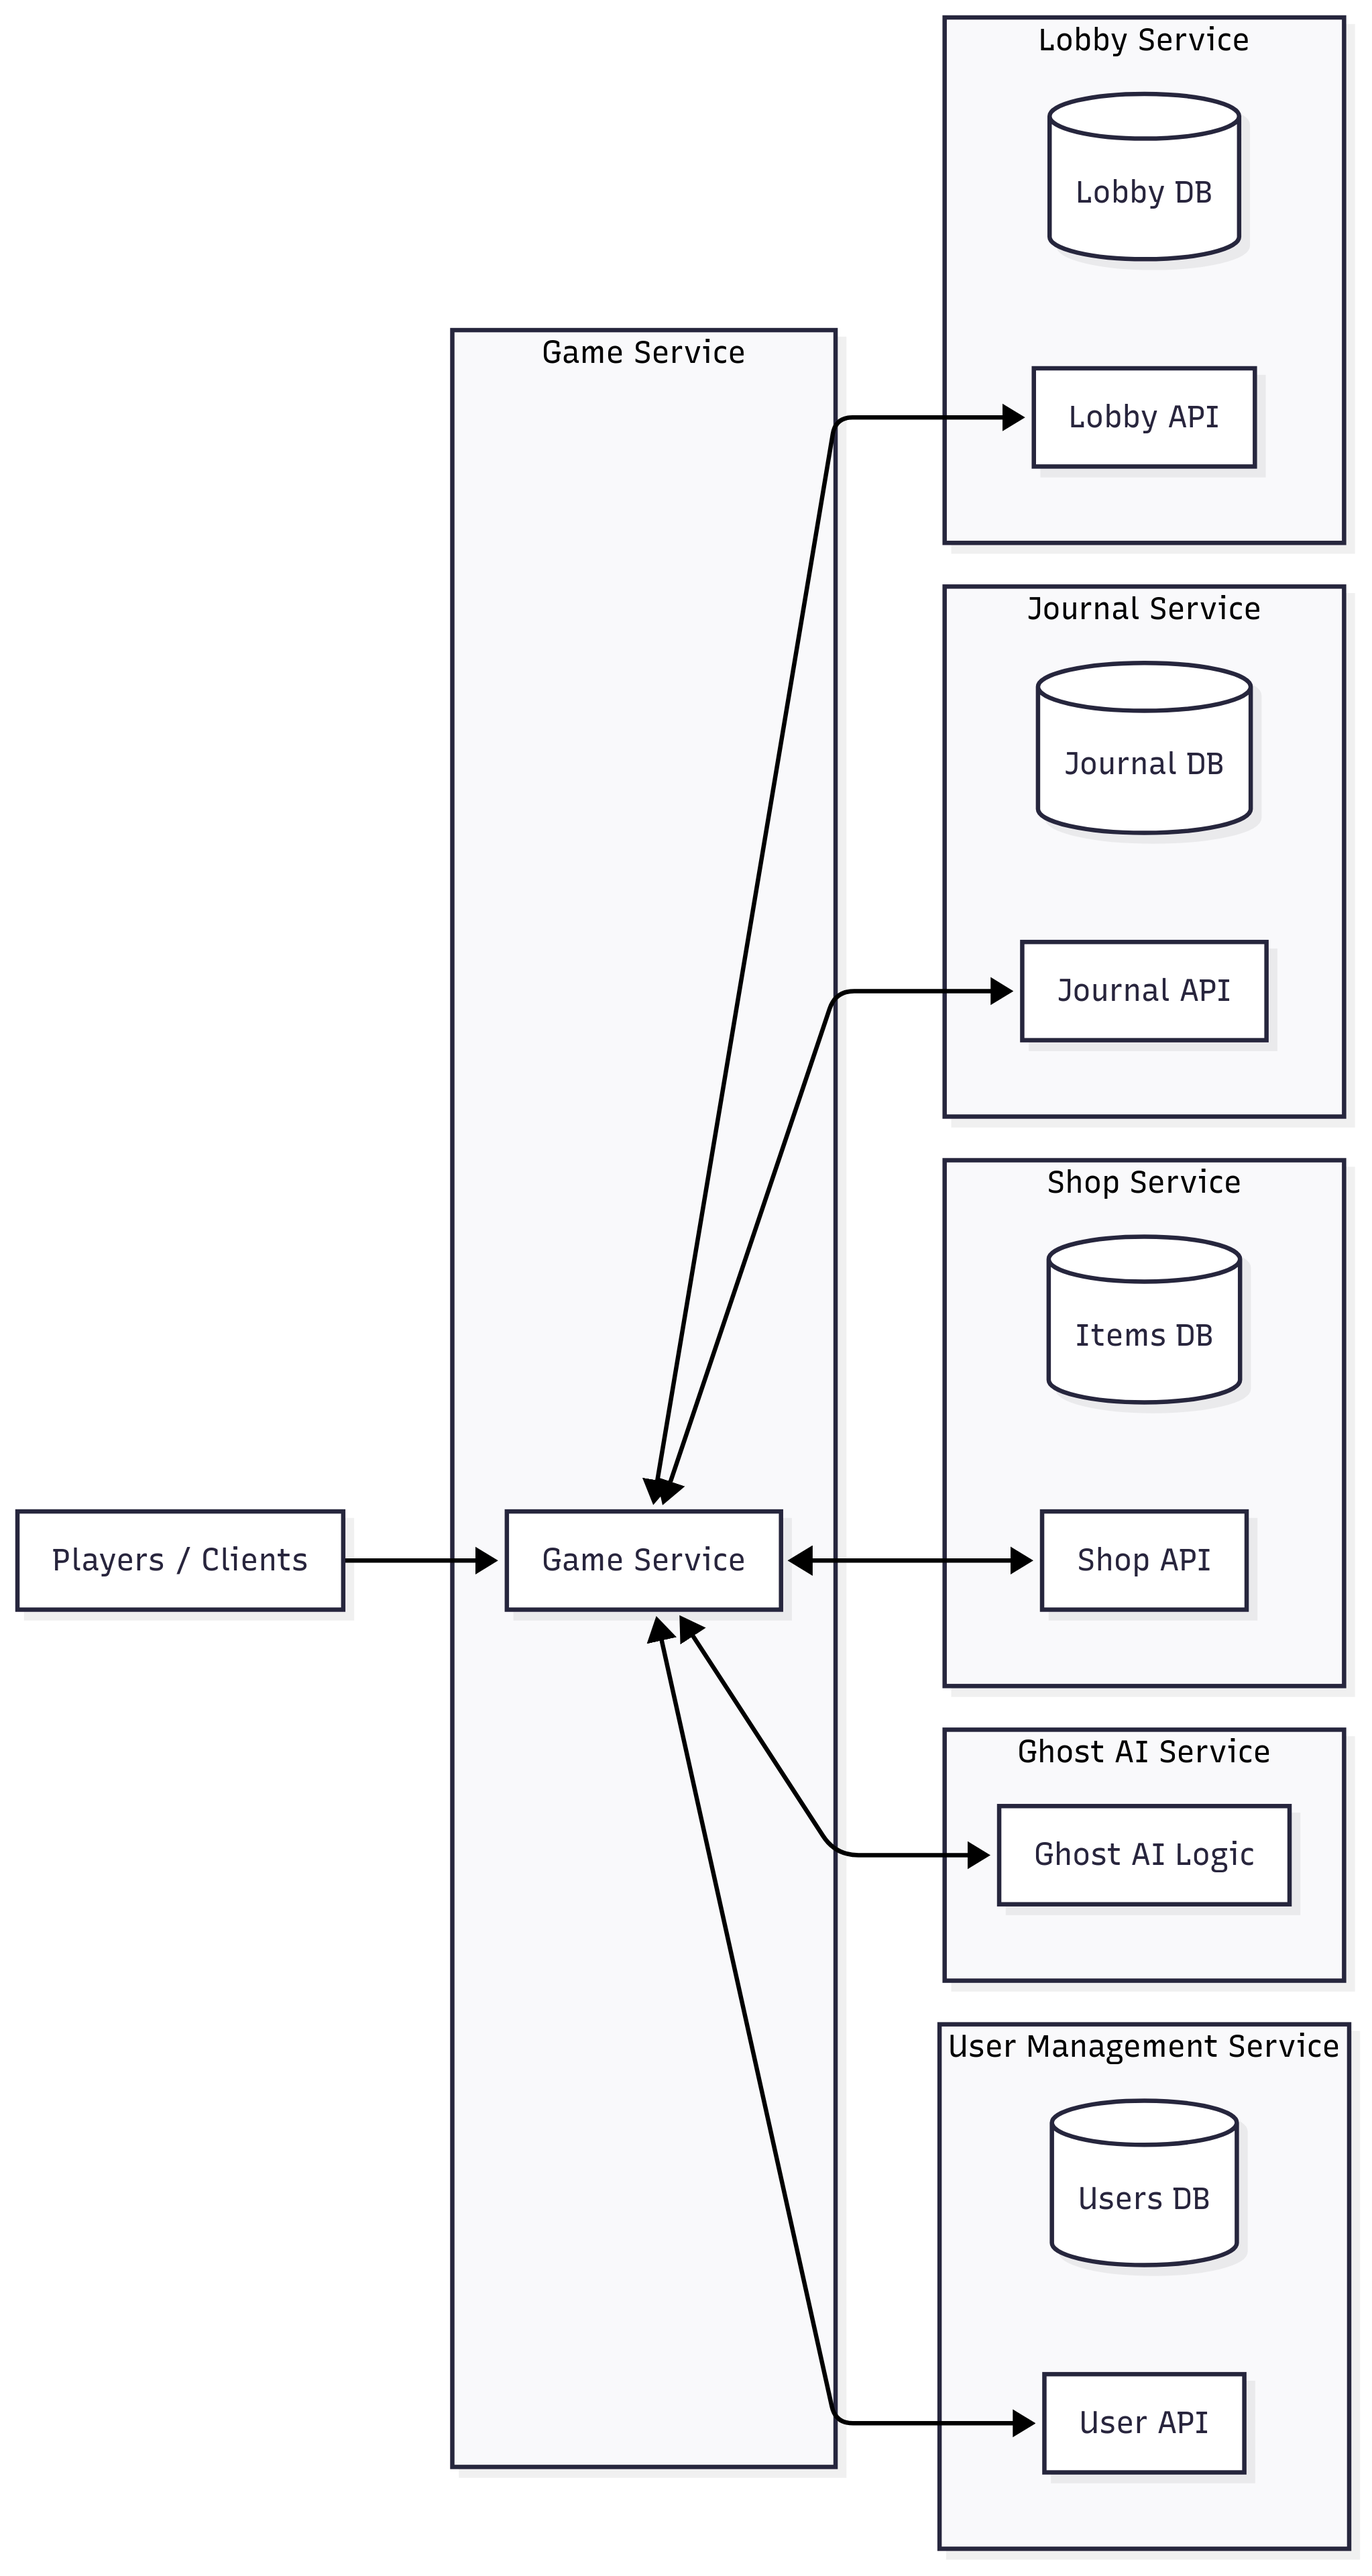
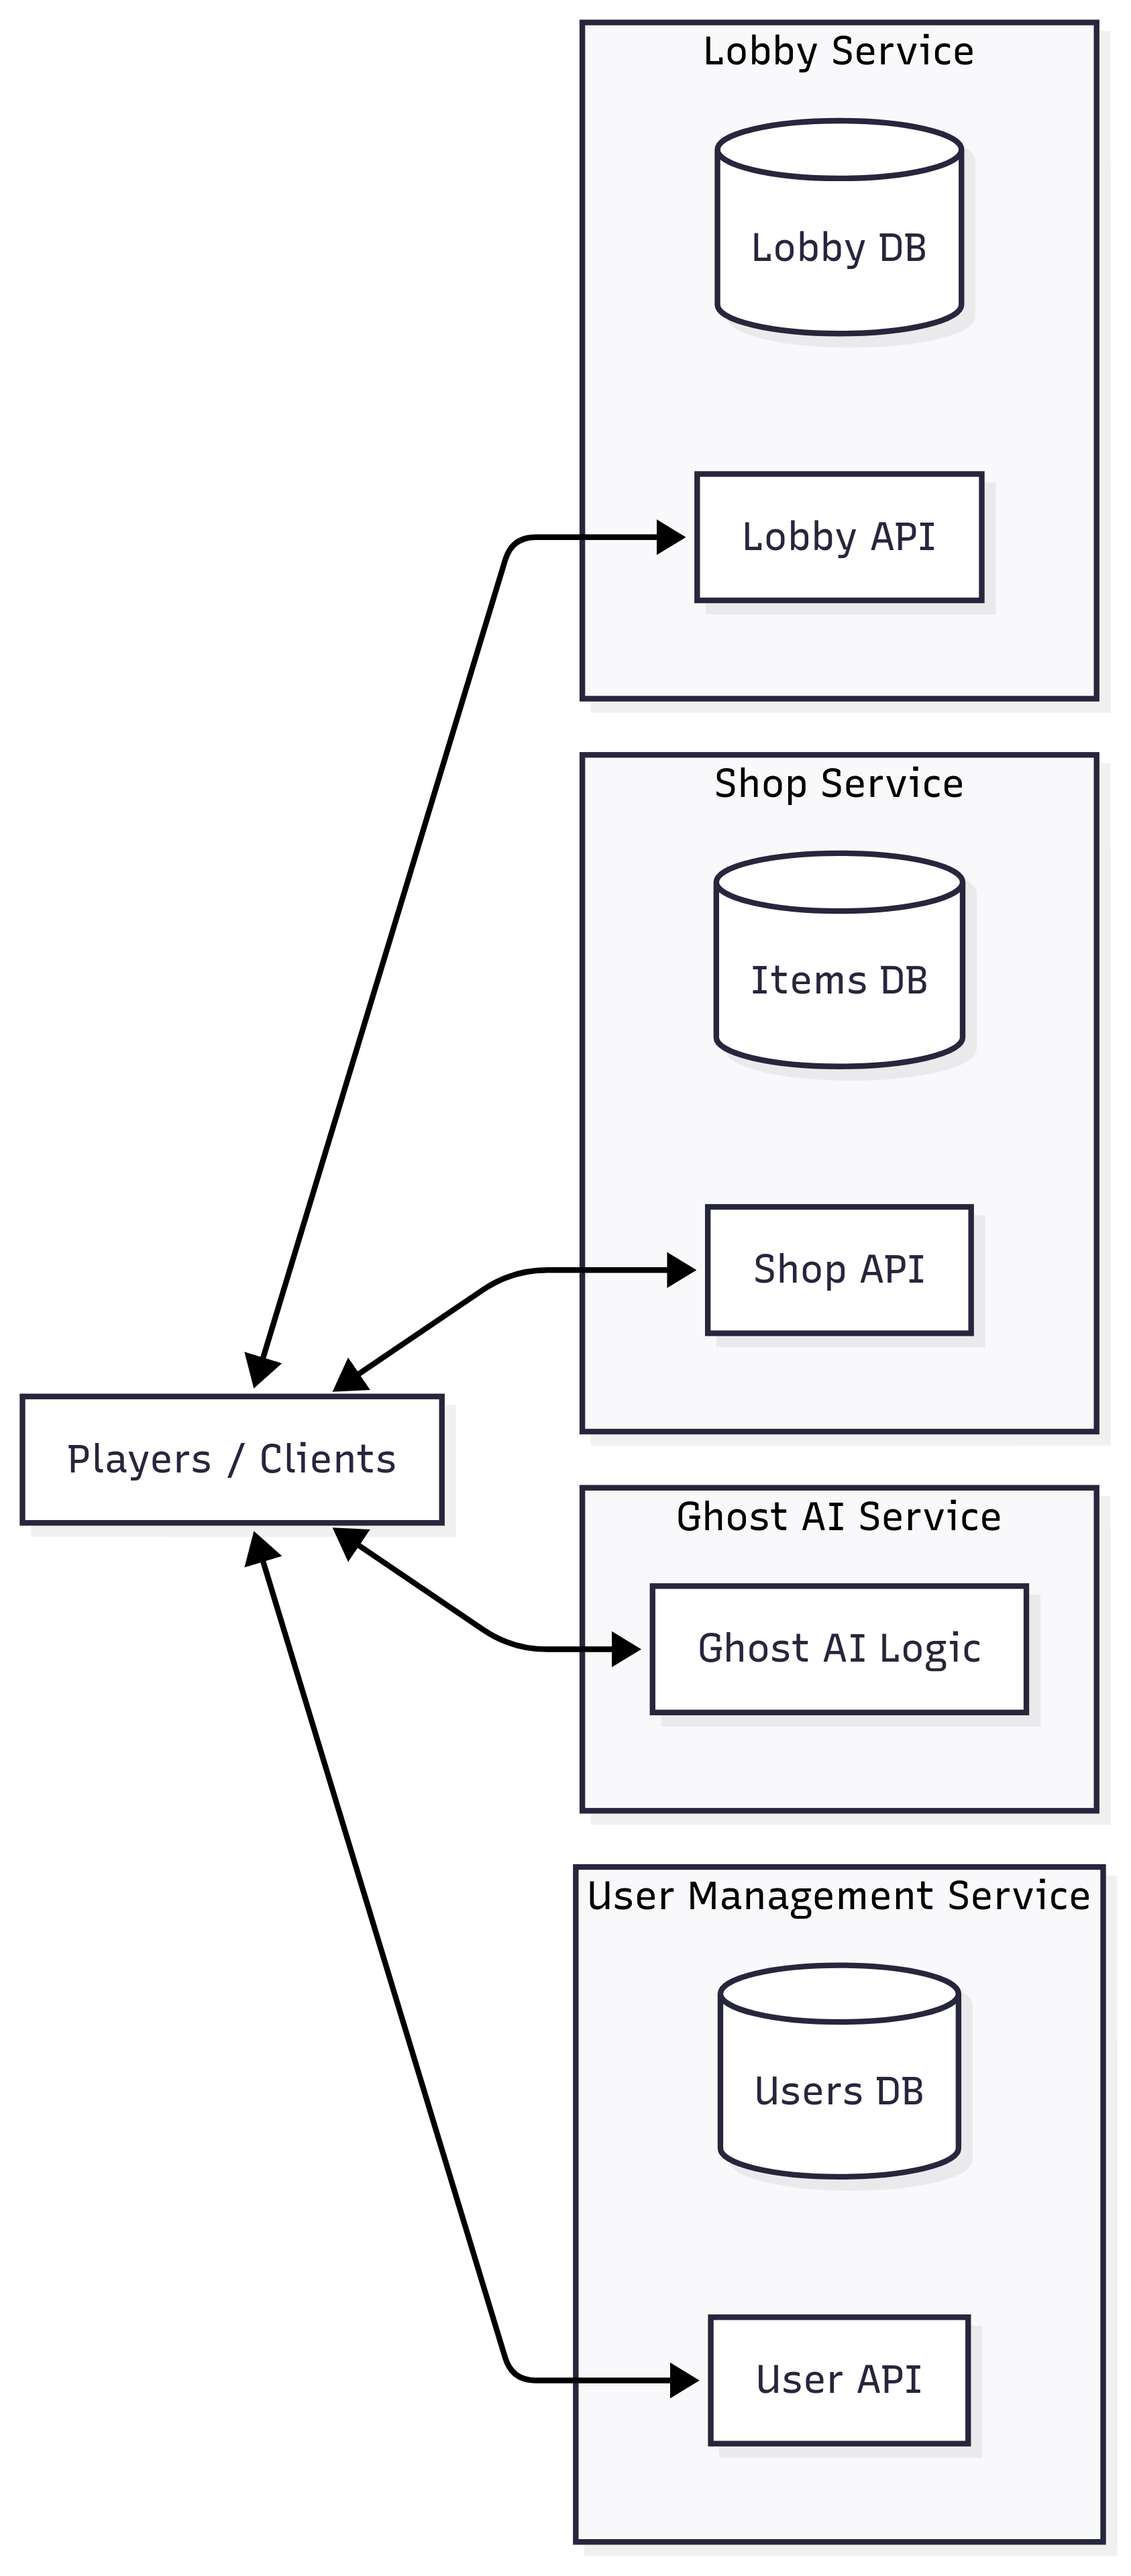
readme file changes + diagram changes

diff --git a/README.md b/README.md
@@ -2,9 +2,13 @@
 
 ## Game Microservices – Service Boundaries
 
-This project is structured around a microservices architecture to ensure modularity, scalability, and independent deployment of each component. Each service is responsible for a specific domain of the game and communicates with others where required.
+This project follows a microservices architecture to ensure modularity, scalability, and independent deployment of each component. Each service is implemented in a different language to promote polyglot programming, reflecting the diversity of team expertise and optimizing for specific business needs.
+
+We use Python and Go, as they are simple to learn, widely supported, and well-suited for game backend scenarios.
+Python is chosen for services that need flexibility and fast iteration (user data, AI logic), while Go is selected for performance-critical and real-time state management (shop, lobby).
 
 ## Services Overview
+
 
 ## 1. User Management Service
 
@@ -32,7 +36,9 @@ This project is structured around a microservices architecture to ensure modular
 
 ### Consumed by:
 
-- Game Service (for retrieving player info during active sessions).
+- Lobby Service (fetch user info).
+
+- Inventory Service (currency checks).
 
 ---
 
@@ -66,7 +72,7 @@ This project is structured around a microservices architecture to ensure modular
 
 ### Consumed by:
 
-- Game Service (to update lobby and broadcast changes to players).
+- Lobby Service (session updates).
 
 ---
 
@@ -82,9 +88,11 @@ This project is structured around a microservices architecture to ensure modular
 
 - Handles item data only.
 
-###Consumers:
+### Consumers:
 
- Game Service, Inventory Service.
+- Inventory Service (item ownership).
+
+- Lobby Service (loading items into session).
 
 
 ---
@@ -105,14 +113,157 @@ This project is structured around a microservices architecture to ensure modular
 
 ### Consumers:
 
-- Game Service to coordinate gameplay.
+- Inventory Service (item ownership).
 
 ---
-
-
-
-
 
 ### Architecture diagram
 
 ![Architecture diagram](diagrams/architect-diagram.png)
+
+---
+
+# Technologies & Communication Patterns
+
+## General Communication Approach:
+
+- REST APIs for synchronous communication (simple, well-understood).
+
+- gRPC / Message Queue for asynchronous events where real-time updates or decoupling are needed.
+
+- WebSockets for real-time communication with players (e.g., chat, lobby updates).
+
+## 1. User Management Service
+### Language & Framework:
+
+- Python
+
+- FastAPI
+
+### Why:
+
+- Beginner-friendly, quick to prototype user flows (auth, friends).
+
+- Good ecosystem for authentication & security (JWT, OAuth).
+
+- Async support in FastAPI makes it efficient for handling many concurrent users.
+
+### Communication:
+
+### Provides REST APIs for:
+
+- User authentication & profile data.
+
+- Friend system (add/remove/list).
+
+### Consumed by:
+
+- Lobby Service (fetch user info).
+
+- Inventory Service (currency checks).
+
+### Trade-offs:
+
+Python is slower than Go, but user management is more I/O-bound than CPU-heavy → acceptable.
+
+## 2. Ghost AI Service
+### Language & Framework:
+
+- Python (asyncio, FastAPI for control plane).
+
+### Why:
+
+- Python is strong for prototyping AI behavior, with libraries for state machines and simulations.
+
+- Easy to spawn async tasks or processes for each ghost acting independently.
+
+- Allows fast experimentation with ghost decision-making.
+
+### Communication:
+
+Provides async events / REST APIs:
+
+Ghost state updates (hiding, haunting, object interaction).
+
+### Consumed by:
+
+- Lobby Service (session updates).
+
+- Game Service indirectly for broadcasting ghost behavior.
+
+### Trade-offs:
+
+Python concurrency (asyncio) is not as fast as Go, but ghost behavior logic is relatively lightweight compared to session state handling → trade-off acceptable.
+
+## 3. Shop Service
+### Language & Framework:
+
+- Go + Gin 
+- gRPC/WebSocket
+
+### Why:
+
+- Shop must handle real-time price updates efficiently.
+
+- Go provides strong concurrency via goroutines, making it perfect for event-driven updates.
+
+- Fast and memory-efficient, ensuring scalability when many players check shop prices.
+
+### Communication:
+
+Provides REST APIs for:
+
+- Item catalog.
+
+- Price history queries.
+
+Provides WebSocket for:
+
+- Real-time price changes.
+
+### Consumed by:
+
+- Inventory Service (item ownership).
+
+- Lobby Service (loading items into session).
+
+### Trade-offs:
+
+Requires more boilerplate compared to Python, but Go’s performance ensures low-latency updates.
+
+## 4. Lobby Service
+### Language & Framework:
+
+- Go + Gin
+
+- gRPC
+
+- WebSocket
+
+### Why:
+
+- Lobby requires real-time updates (sanity, death, items, ghost activity).
+
+- Go handles many concurrent connections well, making it the best choice for player session tracking.
+
+- Easy to integrate with Ghost AI via gRPC and push updates via WebSocket.
+
+### Communication:
+
+Provides REST APIs + WebSocket for:
+
+- Session creation, updates, queries.
+
+- Real-time lobby updates (sanity, death, ghost activity).
+
+### Consumes:
+
+- Ghost AI (events via REST or message queue).
+
+- User Management (player profiles).
+
+- Inventory Service (item ownership).
+
+### Trade-offs:
+
+More verbose than Python, but guarantees performance under high player load.
